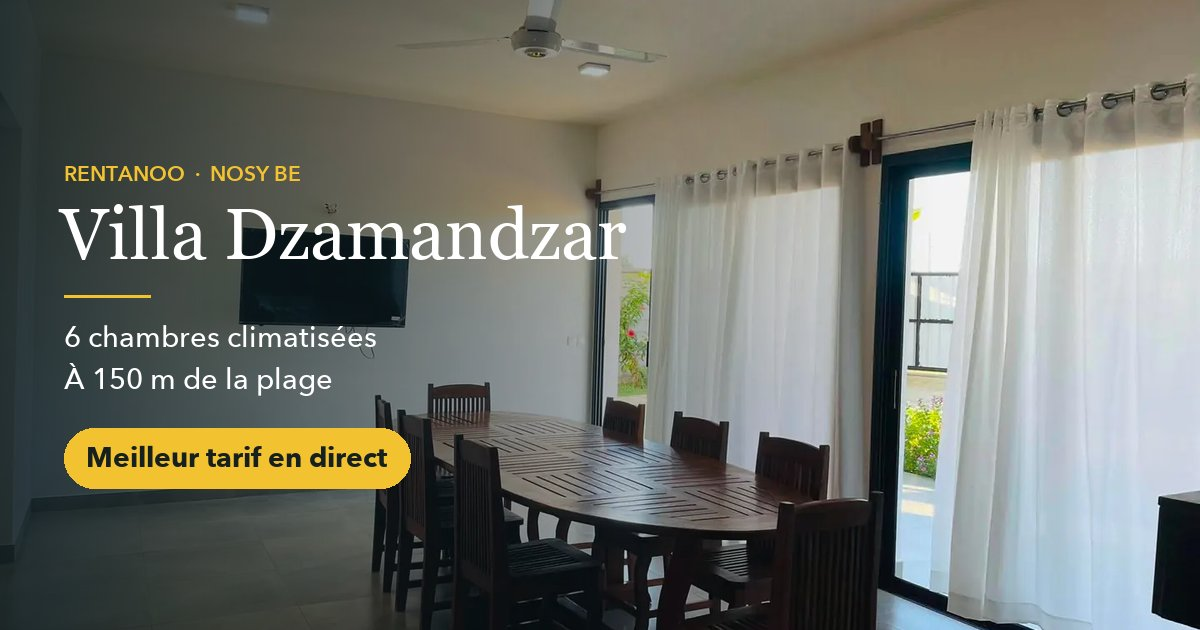
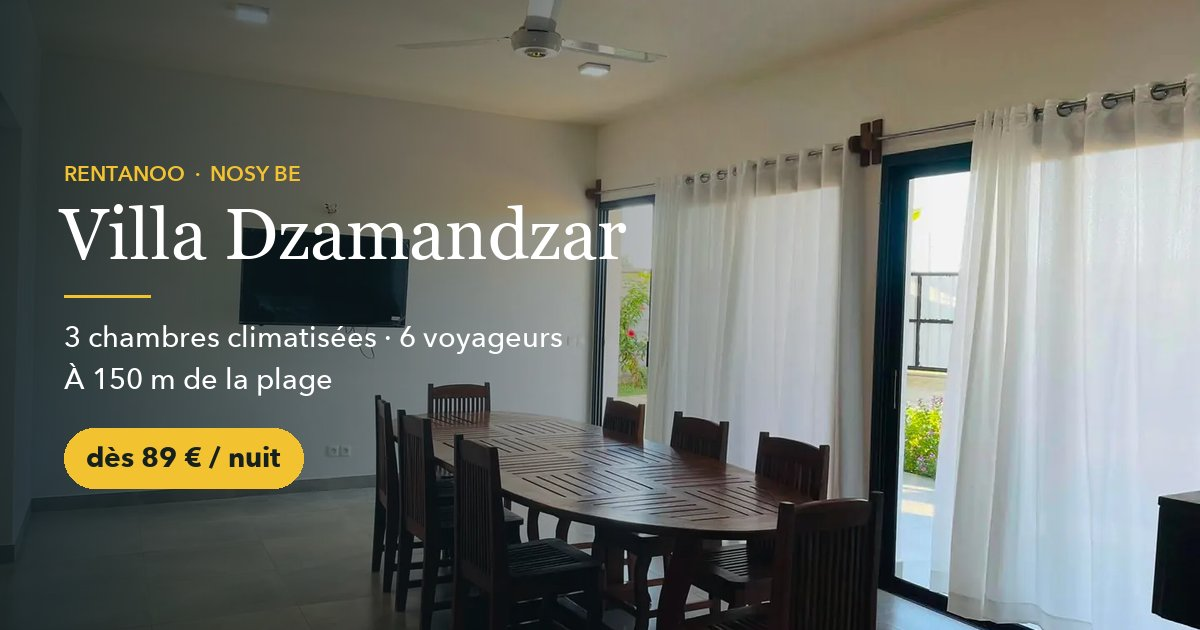
Villa Dzamandzar : 2 logements identiques de 3 chambres (6 pers.), dès 89 € la nuit ; villa entière sur demande

Changed region(s): [[0.0617, 0.6635, 0.3392, 0.7841], [0.3392, 0.5127, 0.4625, 0.573], [0.0308, 0.5127, 0.0617, 0.5429]]

diff --git a/index.html b/index.html
@@ -3,8 +3,8 @@
 <head>
 <meta charset="utf-8">
 <meta name="viewport" content="width=device-width, initial-scale=1">
-<title>Villa 6 chambres climatisées à 150 m de la plage — Dzamandzar, Nosy Be</title>
-<meta name="description" content="Villa meublée de 6 chambres climatisées avec salle de bain privative, à 150 m de la plage à Nosy Be : deux niveaux avec salon, cuisine et grande terrasse chacun, propriété clôturée avec gardien, wifi. Meilleur tarif en direct.">
+<title>Villa Dzamandzar — 2 logements de 3 chambres à 150 m de la plage, Nosy Be</title>
+<meta name="description" content="Villa Dzamandzar, Nosy Be : deux logements identiques de 3 chambres climatisées avec salle de bain, jusqu&#x27;à 6 personnes chacun, à 150 m de la plage. Villa entière (12 pers.) sur demande. Dès 89 € la nuit en direct.">
 <link rel="canonical" href="https://villa-dzamandzar.rentanoo.com/">
 <meta name="robots" content="index, follow, max-image-preview:large, max-snippet:-1">
 <meta name="theme-color" content="#16211F">
@@ -19,8 +19,8 @@
 <meta property="og:locale:alternate" content="it_IT">
 <meta property="og:locale:alternate" content="en_US">
 <meta property="og:url" content="https://villa-dzamandzar.rentanoo.com/">
-<meta property="og:title" content="Villa 6 chambres à 150 m de la plage · Nosy Be">
-<meta property="og:description" content="6 chambres climatisées avec salle de bain, deux niveaux avec cuisine et terrasse, propriété clôturée avec gardien. Meilleur tarif en direct.">
+<meta property="og:title" content="Villa Dzamandzar — 3 chambres, 150 m de la plage · Nosy Be">
+<meta property="og:description" content="Deux logements de 3 chambres climatisées (6 pers. chacun) à 150 m de la plage ; villa entière sur demande. Dès 89 € la nuit en direct.">
 <meta property="og:image" content="https://villa-dzamandzar.rentanoo.com/images/og.jpg">
 <meta property="og:image:secure_url" content="https://villa-dzamandzar.rentanoo.com/images/og.jpg">
 <meta property="og:image:type" content="image/jpeg">
@@ -29,12 +29,12 @@
 <meta property="og:image:alt" content="Villa Dzamandzar — Dzamandzar, Nosy Be">
 
 <meta name="twitter:card" content="summary_large_image">
-<meta name="twitter:title" content="Villa 6 chambres à 150 m de la plage · Nosy Be">
-<meta name="twitter:description" content="6 chambres climatisées avec salle de bain, deux niveaux avec cuisine et terrasse, propriété clôturée avec gardien. Meilleur tarif en direct.">
+<meta name="twitter:title" content="Villa Dzamandzar — 3 chambres, 150 m de la plage · Nosy Be">
+<meta name="twitter:description" content="Deux logements de 3 chambres climatisées (6 pers. chacun) à 150 m de la plage ; villa entière sur demande. Dès 89 € la nuit en direct.">
 <meta name="twitter:image" content="https://villa-dzamandzar.rentanoo.com/images/og.jpg">
 
 <script type="application/ld+json">
-{"@type": "LodgingBusiness", "name": "Villa Dzamandzar", "description": "Villa meublée de 6 chambres climatisées avec salle de bain privative à Dzamandzar (Nosy Be), à 150 m de la plage : rez-de-chaussée et étage avec chacun 3 chambres, salon, cuisine et grande terrasse. Propriété clôturée avec gardien, wifi, ventilateurs de plafond.", "url": "https://villa-dzamandzar.rentanoo.com/", "image": ["https://villa-dzamandzar.rentanoo.com/images/og.jpg", "https://villa-dzamandzar.rentanoo.com/images/sejour-1.webp"], "telephone": "+261373437912", "email": "chrisrentanoo@gmail.com", "address": {"@type": "PostalAddress", "addressLocality": "Dzamandzar", "addressRegion": "Nosy Be", "addressCountry": "MG"}, "areaServed": "Nosy Be", "amenityFeature": [{"@type": "LocationFeatureSpecification", "name": "Climatisation", "value": true}, {"@type": "LocationFeatureSpecification", "name": "Wifi", "value": true}, {"@type": "LocationFeatureSpecification", "name": "Salle de bain privative", "value": true}, {"@type": "LocationFeatureSpecification", "name": "Cuisine équipée", "value": true}, {"@type": "LocationFeatureSpecification", "name": "Gardien sur place", "value": true}, {"@type": "LocationFeatureSpecification", "name": "Propriété clôturée", "value": true}], "sameAs": ["https://rentanoo.com/hebergement/F3074E61"], "numberOfRooms": 6, "@context": "https://schema.org"}
+{"@type": "LodgingBusiness", "name": "Villa Dzamandzar", "description": "Villa à Dzamandzar (Nosy Be), à 150 m de la plage, composée de deux logements identiques (rez-de-chaussée et étage) : chacun 3 chambres climatisées avec salle de bain privative, salon, cuisine et grande terrasse, jusqu'à 6 personnes. Villa entière (6 chambres, 12 personnes) sur demande. Propriété clôturée avec gardien, wifi.", "url": "https://villa-dzamandzar.rentanoo.com/", "image": ["https://villa-dzamandzar.rentanoo.com/images/og.jpg", "https://villa-dzamandzar.rentanoo.com/images/sejour-1.webp"], "telephone": "+261373437912", "email": "chrisrentanoo@gmail.com", "address": {"@type": "PostalAddress", "addressLocality": "Dzamandzar", "addressRegion": "Nosy Be", "addressCountry": "MG"}, "areaServed": "Nosy Be", "amenityFeature": [{"@type": "LocationFeatureSpecification", "name": "Climatisation", "value": true}, {"@type": "LocationFeatureSpecification", "name": "Wifi", "value": true}, {"@type": "LocationFeatureSpecification", "name": "Salle de bain privative", "value": true}, {"@type": "LocationFeatureSpecification", "name": "Cuisine équipée", "value": true}, {"@type": "LocationFeatureSpecification", "name": "Gardien sur place", "value": true}, {"@type": "LocationFeatureSpecification", "name": "Propriété clôturée", "value": true}], "sameAs": ["https://rentanoo.com/hebergement/F3074E61"], "numberOfRooms": 3, "priceRange": "À partir de 89 € la nuit", "currenciesAccepted": "EUR", "@context": "https://schema.org"}
 </script>
 
 <link rel="preconnect" href="https://fonts.googleapis.com">
@@ -274,9 +274,9 @@
 <header id="hdr">
   <a class="brand" href="#top" aria-label="Villa Dzamandzar"><b>Villa Dzamandzar</b><small>Dzamandzar · Nosy Be</small></a>
   <nav class="nav" aria-label="Navigation">
-    <a class="nl" href="#presentation"><span data-i18n="k33">Le logement</span></a>
-    <a class="nl" href="#pieces"><span data-i18n="k34">Pièce par pièce</span></a>
-    <a class="nl" href="#quartier"><span data-i18n="k35">Le quartier</span></a>
+    <a class="nl" href="#presentation"><span data-i18n="k39">Le logement</span></a>
+    <a class="nl" href="#pieces"><span data-i18n="k40">Pièce par pièce</span></a>
+    <a class="nl" href="#quartier"><span data-i18n="k41">Le quartier</span></a>
     <div class="langs" role="group" aria-label="Langue">
       <button type="button" data-lang="fr" aria-pressed="true"><span>FR</span></button>
       <button type="button" data-lang="it" aria-pressed="false"><span>IT</span></button>
@@ -293,27 +293,27 @@
     <img src="images/sejour-1.webp" alt="Le séjour de la villa, Dzamandzar" width="1440" height="1080" fetchpriority="high">
   </picture>
   <div class="hero-in">
-    <p data-i18n="k36" class="eyebrow">Dzamandzar · Nosy Be</p>
+    <p data-i18n="k42" class="eyebrow">Dzamandzar · Nosy Be</p>
     <h1>Villa Dzamandzar</h1>
-    <p data-i18n="k37" class="hero-sub">Une grande villa meublée de 6 chambres climatisées, chacune avec sa salle de bain, à 150 mètres de la plage.</p>
-    <ul class="chips"><li><span data-i18n="k1">6 chambres climatisées</span></li><li><span data-i18n="k2">6 salles de bain</span></li><li><span data-i18n="k3">Plage à 150 m</span></li><li><span data-i18n="k4">Gardien</span></li></ul>
+    <p data-i18n="k43" class="hero-sub">Deux logements identiques de 3 chambres climatisées avec salle de bain, pour 6 personnes chacun, à 150 mètres de la plage.</p>
+    <ul class="chips"><li><span data-i18n="k1">3 chambres climatisées</span></li><li><span data-i18n="k2">Jusqu'à 6 voyageurs</span></li><li><span data-i18n="k3">Plage à 150 m</span></li><li><span data-i18n="k4">Villa entière sur demande</span></li></ul>
     <div class="hero-row">
-      <span class="price-tag ask"><b data-i18n="best">Meilleur tarif en direct</b></span>
+      <span class="price-tag"><span data-i18n="from">dès</span> <b>89 €</b> <span data-i18n="per-night">la nuit</span></span>
       <a class="btn btn-cta" href="#reservation" data-i18n="cta-dates">Demander mes dates</a>
       <a class="btn btn-ghost" href="#" data-wa="hero"><svg><use href="#i-wa"/></svg>WhatsApp</a>
     </div>
-    <p data-i18n="k38" class="price-note">Prix sur demande selon vos dates · réponse rapide sur WhatsApp</p>
+    <p data-i18n="k38" class="price-note">Le meilleur tarif, c'est en direct · réponse rapide sur WhatsApp</p>
   </div>
 </section>
 
-<section class="perks" aria-label="Atouts"><ul><li><svg><use href="#i-snow"/></svg><span data-i18n="k5">6 chambres climatisées</span></li><li><svg><use href="#i-bath"/></svg><span data-i18n="k6">Salle de bain dans chaque chambre</span></li><li><svg><use href="#i-wave"/></svg><span data-i18n="k7">Plage à 150 m</span></li><li><svg><use href="#i-home"/></svg><span data-i18n="k8">2 salons, 2 cuisines, 2 terrasses</span></li><li><svg><use href="#i-wifi"/></svg><span data-i18n="k9">Wifi</span></li><li><svg><use href="#i-key"/></svg><span data-i18n="k10">Propriété clôturée, gardien</span></li><li><svg><use href="#i-car"/></svg><span data-i18n="k11">Accès facile en voiture</span></li><li><svg><use href="#i-users"/></svg><span data-i18n="k12">Familles et groupes</span></li></ul></section>
+<section class="perks" aria-label="Atouts"><ul><li><svg><use href="#i-snow"/></svg><span data-i18n="k5">3 chambres climatisées</span></li><li><svg><use href="#i-bath"/></svg><span data-i18n="k6">Salle de bain dans chaque chambre</span></li><li><svg><use href="#i-users"/></svg><span data-i18n="k7">Jusqu'à 6 voyageurs par logement</span></li><li><svg><use href="#i-wave"/></svg><span data-i18n="k8">Plage à 150 m</span></li><li><svg><use href="#i-home"/></svg><span data-i18n="k9">Salon, cuisine et grande terrasse</span></li><li><svg><use href="#i-wifi"/></svg><span data-i18n="k10">Wifi</span></li><li><svg><use href="#i-key"/></svg><span data-i18n="k11">Propriété clôturée, gardien</span></li><li><svg><use href="#i-car"/></svg><span data-i18n="k12">Accès facile en voiture</span></li></ul></section>
 
 <section class="intro" id="presentation" aria-label="Présentation">
   <div class="wrap intro-grid">
     <div data-reveal>
-      <p data-i18n="k39" class="eyebrow">La villa</p>
-      <h2 data-i18n="k40" class="h2">Toute la tribu sous le même toit</h2>
-      <p data-i18n="k13" class="hook">Une villa meublée à seulement 150 mètres de la plage, dans un environnement calme et sécurisé : propriété entièrement clôturée, gardien sur place.</p><p data-i18n="k14">Deux niveaux qui fonctionnent chacun comme une maison : 3 chambres climatisées avec salle de bain privative, un salon, une cuisine et une grande terrasse — celle de l'étage avec une belle vue dégagée.</p><p data-i18n="k15">Idéale pour les familles nombreuses, les groupes d'amis et les longs séjours.</p>
+      <p data-i18n="k44" class="eyebrow">La villa</p>
+      <h2 data-i18n="k45" class="h2">Deux logements, une seule adresse</h2>
+      <p data-i18n="k13" class="hook">Une villa meublée à seulement 150 mètres de la plage, dans un environnement calme et sécurisé : propriété entièrement clôturée, gardien sur place.</p><p data-i18n="k14">Elle se compose de deux logements identiques, l'un au rez-de-chaussée, l'autre à l'étage. Chacun a 3 chambres climatisées avec salle de bain privative, un salon, une cuisine et une grande terrasse — celle de l'étage avec une belle vue dégagée. Jusqu'à 6 personnes par logement.</p><p data-i18n="k15">Vous êtes plus nombreux ? La villa entière (6 chambres, jusqu'à 12 personnes) se loue sur demande.</p>
       <a class="btn btn-ghost video-btn" href="https://www.youtube.com/watch?v=HvoJFl0Y3u0" target="_blank" rel="noopener"><svg><use href="#i-play"/></svg><span data-i18n="k16">Visite en vidéo</span></a>
       
     </div>
@@ -338,7 +338,7 @@
 
 <div class="wrap rooms-head" id="pieces">
   <p data-i18n="rooms-eyebrow" class="eyebrow">Pièce par pièce</p>
-  <h2 data-i18n="k41" class="h2">Visitez le logement</h2>
+  <h2 data-i18n="k46" class="h2">Visitez le logement</h2>
   <p data-i18n="rooms-lead" class="lead">Toutes les photos sont celles du logement. Touchez une photo pour l'agrandir.</p>
   <nav class="room-nav" aria-label="Pièces"><a href="#sejour"><span data-i18n="k17">Séjour</span></a><a href="#chambres"><span data-i18n="k23">Chambres</span></a><a href="#cuisine"><span data-i18n="k28">Cuisine</span></a></nav>
 </div>
@@ -347,7 +347,7 @@
   <div class="wrap room-grid">
     <div class="room-text" data-reveal>
       <h3 data-i18n="k21">Le séjour</h3>
-      <p data-i18n="k22">Un grand espace de vie lumineux avec sa longue table pour tout le monde, la télévision et les baies vitrées vers la terrasse. Ventilateurs de plafond.</p>
+      <p data-i18n="k22">Un grand espace de vie lumineux avec sa longue table, la télévision et les baies vitrées vers la terrasse. Ventilateurs de plafond.</p>
       <ul class="tags"><li><span data-i18n="k18">Grande table</span></li><li><span data-i18n="k19">Télévision</span></li><li><span data-i18n="k20">Ventilateurs de plafond</span></li></ul>
       <button class="more" type="button" data-open="sejour"><span data-i18n="see-photos">Voir les photos</span> <span class="n"></span></button>
     </div>
@@ -357,8 +357,8 @@
 <section class="room rev" id="chambres" data-gallery="chambres" aria-label="Chambres">
   <div class="wrap room-grid">
     <div class="room-text" data-reveal>
-      <h3 data-i18n="k26">Six chambres</h3>
-      <p data-i18n="k27">Trois chambres par niveau, toutes climatisées et chacune avec sa salle de bain privative.</p>
+      <h3 data-i18n="k26">Trois chambres</h3>
+      <p data-i18n="k27">Chaque logement a 3 chambres, toutes climatisées et chacune avec sa salle de bain privative.</p>
       <ul class="tags"><li><span data-i18n="k24">Climatisation</span></li><li><span data-i18n="k25">Salle de bain privative</span></li></ul>
       <button class="more" type="button" data-open="chambres"><span data-i18n="see-photos">Voir les photos</span> <span class="n"></span></button>
     </div>
@@ -368,8 +368,8 @@
 <section class="room" id="cuisine" data-gallery="cuisine" aria-label="Cuisine">
   <div class="wrap room-grid">
     <div class="room-text" data-reveal>
-      <h3 data-i18n="k30">Deux cuisines</h3>
-      <p data-i18n="k31">Une cuisine équipée à chaque niveau : chacun cuisine à son rythme.</p>
+      <h3 data-i18n="k30">La cuisine</h3>
+      <p data-i18n="k31">Une cuisine équipée dans chaque logement, pour cuisiner à votre rythme.</p>
       <ul class="tags"><li><span data-i18n="k29">Cuisine équipée</span></li></ul>
       <button class="more" type="button" data-open="cuisine"><span data-i18n="see-photos">Voir les photos</span> <span class="n"></span></button>
     </div>
@@ -381,8 +381,8 @@
   <div class="wrap area-grid">
     <div data-reveal>
       <p data-i18n="area-eyebrow" class="eyebrow">Le quartier</p>
-      <h2 data-i18n="k42" class="h2">À 150 mètres de la plage</h2>
-      <p data-i18n="k43">Un quartier calme et agréable de Dzamandzar, sur la côte ouest de Nosy Be, avec un accès facile en voiture. Électricité et eau de la JIRAMA.</p>
+      <h2 data-i18n="k47" class="h2">À 150 mètres de la plage</h2>
+      <p data-i18n="k48">Un quartier calme et agréable de Dzamandzar, sur la côte ouest de Nosy Be, avec un accès facile en voiture. Électricité et eau de la JIRAMA.</p>
       
     </div>
     <ul class="dist" data-reveal><li><span data-i18n="k32">La plage<small>à pied</small></span><b>150 m</b></li></ul>
@@ -395,7 +395,7 @@
     <div data-reveal>
       <p data-i18n="host-eyebrow" class="eyebrow">Réservation</p>
       <h2 data-i18n="host-title" class="h2">Bonjour, c'est Chris</h2>
-      <p data-i18n="k44">Avec Rentanoo, j'accueille des voyageurs à Nosy Be toute l'année et je gère les réservations de plusieurs logements sur l'île, dont celui-ci. Mon métier : vous rendre le séjour facile.</p>
+      <p data-i18n="k49">Avec Rentanoo, j'accueille des voyageurs à Nosy Be toute l'année et je gère les réservations de plusieurs logements sur l'île, dont celui-ci. Mon métier : vous rendre le séjour facile.</p>
       <p data-i18n="host-2">Je réponds vite, du matin au soir, en français, en anglais ou en italien.</p>
       <p style="font-weight:600;color:var(--ink);margin-top:22px"><span data-i18n="svc-title">Sur demande, Rentanoo organise aussi :</span></p>
       <div class="svc">
@@ -412,13 +412,13 @@
   <div class="wrap">
     <div class="resa-head" data-reveal>
       <p data-i18n="resa-eyebrow" class="eyebrow">Réservation</p>
-      <div class="resa-price"><span data-i18n="best">Meilleur tarif en direct</span></div>
+      <div class="resa-price"><span data-i18n="from">dès</span> <b>89 €</b> <span data-i18n="per-night">la nuit</span></div>
       <h2 data-i18n="resa-title" class="h2">Demandez vos dates</h2>
       <p data-i18n="resa-text">Choisissez vos dates et laissez-nous vos coordonnées : on revient vers vous très vite avec la disponibilité et le meilleur prix.</p>
     </div>
     <form id="resa-form" novalidate data-reveal>
       <div class="resa-grid">
-        <input type="hidden" name="logement" value="Villa Dzamandzar">
+        <label class="resa-field full"><span data-i18n="k37">Logement</span><select name="logement" id="resa-logement"><option value="Villa Dzamandzar — logement du rez-de-chaussée" data-i18n="k33">Logement du rez-de-chaussée — 3 ch., 6 pers. · dès 89 €</option><option value="Villa Dzamandzar — logement de l&#x27;étage" data-i18n="k34">Logement de l'étage — 3 ch., 6 pers. · dès 89 €</option><option value="Villa Dzamandzar — villa entière (sur demande)" data-i18n="k35">Villa entière — 6 ch., 12 pers. · sur demande</option><option value="Peu importe" data-i18n="k36">Peu importe / conseillez-moi</option></select></label>
         <label class="resa-field"><span data-i18n="f-in">Arrivée</span><input type="date" name="arrivee" required></label>
         <label class="resa-field"><span data-i18n="f-out">Départ</span><input type="date" name="depart" required></label>
         <label class="resa-field full"><span data-i18n="f-guests">Voyageurs</span><select name="voyageurs"><option>1</option><option selected>2</option><option>3</option><option>4</option><option>5</option><option>6</option><option>7</option><option>8</option><option>9</option><option>10</option><option>11</option><option>12</option></select></label>
@@ -460,7 +460,7 @@
 </footer>
 
 <div id="sticky" aria-hidden="true">
-  <div class="p"><b data-i18n="best" style="font-size:14px">Meilleur tarif en direct</b></div>
+  <div class="p"><span data-i18n="from">dès</span> <b>89 € <span style="font-size:12px;font-weight:600;color:var(--ink-2)" data-i18n="per-night">la nuit</span></b></div>
   <a class="btn btn-cta" href="#reservation" data-i18n="cta-dates">Demander mes dates</a>
 </div>
 
@@ -511,8 +511,8 @@ if('IntersectionObserver' in window){var io=new IntersectionObserver(function(es
 else document.querySelectorAll('[data-reveal]').forEach(function(el){el.classList.add('in')});
 
 /* Traductions : FR dans le HTML, IT/EN ici (générées par build.py, clé = data-i18n) */
-var T={"k1": {"it": "6 camere climatizzate", "en": "6 air-conditioned bedrooms"}, "k2": {"it": "6 bagni", "en": "6 bathrooms"}, "k3": {"it": "Spiaggia a 150 m", "en": "Beach 150 m away"}, "k4": {"it": "Custode", "en": "Caretaker"}, "k5": {"it": "6 camere climatizzate", "en": "6 air-conditioned bedrooms"}, "k6": {"it": "Bagno in ogni camera", "en": "En-suite in every bedroom"}, "k7": {"it": "Spiaggia a 150 m", "en": "Beach 150 m away"}, "k8": {"it": "2 soggiorni, 2 cucine, 2 terrazze", "en": "2 lounges, 2 kitchens, 2 terraces"}, "k9": {"it": "Wi-Fi", "en": "Wi-Fi"}, "k10": {"it": "Proprietà recintata, custode", "en": "Gated, with caretaker"}, "k11": {"it": "Facile accesso in auto", "en": "Easy car access"}, "k12": {"it": "Famiglie e gruppi", "en": "Families & groups"}, "k13": {"it": "Una villa arredata a soli 150 metri dalla spiaggia, in un ambiente tranquillo e sicuro: proprietà interamente recintata, custode sul posto.", "en": "A furnished villa just 150 metres from the beach, in a quiet and safe setting: fully fenced property, caretaker on site."}, "k14": {"it": "Due livelli che funzionano ciascuno come una casa: 3 camere climatizzate con bagno privato, un soggiorno, una cucina e una grande terrazza — quella del piano superiore con una bella vista aperta.", "en": "Two levels that each work like a house: 3 air-conditioned bedrooms with en-suite bathrooms, a lounge, a kitchen and a large terrace — the upstairs one with a lovely open view."}, "k15": {"it": "Ideale per famiglie numerose, gruppi di amici e soggiorni lunghi.", "en": "Ideal for large families, groups of friends and long stays."}, "k16": {"it": "Visita in video", "en": "Video tour"}, "k17": {"it": "Soggiorno", "en": "Living area"}, "k18": {"it": "Grande tavolo", "en": "Big table"}, "k19": {"it": "Televisione", "en": "TV"}, "k20": {"it": "Ventilatori a soffitto", "en": "Ceiling fans"}, "k21": {"it": "Il soggiorno", "en": "The living area"}, "k22": {"it": "Un grande spazio luminoso con un lungo tavolo per tutti, la televisione e le vetrate verso la terrazza. Ventilatori a soffitto.", "en": "A large, bright living space with a long table for everyone, a TV and glass doors to the terrace. Ceiling fans."}, "see-photos": {"it": "Vedi le foto", "en": "See the photos"}, "k23": {"it": "Camere", "en": "Bedrooms"}, "k24": {"it": "Aria condizionata", "en": "Air conditioning"}, "k25": {"it": "Bagno privato", "en": "En-suite bathroom"}, "k26": {"it": "Sei camere", "en": "Six bedrooms"}, "k27": {"it": "Tre camere per piano, tutte climatizzate e ognuna con il proprio bagno.", "en": "Three bedrooms on each level, all air-conditioned and each with its own en-suite bathroom."}, "k28": {"it": "Cucina", "en": "Kitchen"}, "k29": {"it": "Cucina attrezzata", "en": "Equipped kitchen"}, "k30": {"it": "Due cucine", "en": "Two kitchens"}, "k31": {"it": "Una cucina attrezzata a ogni piano: ognuno cucina con i propri tempi.", "en": "An equipped kitchen on each level: everyone cooks at their own pace."}, "k32": {"it": "La spiaggia<small>a piedi</small>", "en": "The beach<small>on foot</small>"}, "cta-book": {"it": "Prenota", "en": "Book"}, "cta-dates": {"it": "Chiedi le tue date", "en": "Request your dates"}, "best": {"it": "Tariffa migliore prenotando direttamente", "en": "Best rate when you book direct"}, "pf-best": {"it": "Tariffa migliore", "en": "Best rate"}, "k33": {"it": "L'alloggio", "en": "The place"}, "k34": {"it": "Stanza per stanza", "en": "Room by room"}, "k35": {"it": "Il quartiere", "en": "The area"}, "k36": {"it": "Dzamandzar · Nosy Be", "en": "Dzamandzar · Nosy Be"}, "k37": {"it": "Una grande villa arredata con 6 camere climatizzate, ognuna con il proprio bagno, a 150 metri dalla spiaggia.", "en": "A large furnished villa with 6 air-conditioned bedrooms, each with its own bathroom, 150 metres from the beach."}, "k38": {"it": "Prezzo su richiesta in base alle date · risposta rapida su WhatsApp", "en": "Price on request for your dates · quick reply on WhatsApp"}, "k39": {"it": "La villa", "en": "The villa"}, "k40": {"it": "Tutta la tribù sotto lo stesso tetto", "en": "The whole crew under one roof"}, "direct-eyebrow": {"it": "Prenota direttamente", "en": "Book direct"}, "direct-title": {"it": "La tariffa migliore è qui", "en": "The best rate is here"}, "direct-text": {"it": "Sulle piattaforme il prezzo a notte include le loro commissioni. Prenotando direttamente con noi pagate meno: inviateci le date e vi rispondiamo con il prezzo migliore.", "en": "On booking platforms, the nightly price includes their commissions. Book directly with us and you pay less: send us your dates and we reply with the best price."}, "direct-1": {"it": "Più conveniente delle piattaforme per le stesse date", "en": "Cheaper than the platforms for the same dates"}, "direct-2": {"it": "Parlate direttamente con noi, risposta rapida su WhatsApp", "en": "You talk directly to us, quick replies on WhatsApp"}, "direct-3": {"it": "Transfer, scooter, auto o escursione organizzati subito", "en": "Transfer, scooter, car or excursion arranged in one go"}, "rooms-eyebrow": {"it": "Stanza per stanza", "en": "Room by room"}, "k41": {"it": "Visitate l'alloggio", "en": "Take the tour"}, "rooms-lead": {"it": "Tutte le foto sono dell'alloggio. Toccate una foto per ingrandirla.", "en": "All photos are of the place itself. Tap a photo to enlarge it."}, "area-eyebrow": {"it": "Il quartiere", "en": "The area"}, "k42": {"it": "A 150 metri dalla spiaggia", "en": "150 metres from the beach"}, "k43": {"it": "Un quartiere tranquillo e piacevole di Dzamandzar, sulla costa ovest di Nosy Be, facile da raggiungere in auto. Elettricità e acqua della JIRAMA.", "en": "A quiet, pleasant part of Dzamandzar on the west coast of Nosy Be, with easy car access. Mains electricity and water (JIRAMA)."}, "host-eyebrow": {"it": "Prenotazione", "en": "Booking"}, "host-title": {"it": "Ciao, sono Chris", "en": "Hi, I'm Chris"}, "k44": {"it": "Con Rentanoo accolgo viaggiatori a Nosy Be tutto l'anno e gestisco le prenotazioni di diversi alloggi sull'isola, tra cui questo. Il mio lavoro è rendervi il soggiorno facile.", "en": "With Rentanoo I welcome travellers to Nosy Be all year round and handle bookings for several places on the island, including this one. My job is to make your stay easy."}, "host-2": {"it": "Rispondo rapidamente, dalla mattina alla sera, in francese, inglese o italiano.", "en": "I reply quickly, from morning to evening, in French, English or Italian."}, "svc-title": {"it": "Su richiesta, Rentanoo organizza anche:", "en": "On request, Rentanoo also arranges:"}, "svc-1": {"it": "Transfer dall'aeroporto", "en": "Airport transfer"}, "svc-2": {"it": "Noleggio di scooter o quad", "en": "Scooter or quad rental"}, "svc-3": {"it": "Escursioni e taxi-boat", "en": "Excursions and taxi-boat"}, "svc-4": {"it": "Auto con o senza autista", "en": "Car with or without a driver"}, "resa-eyebrow": {"it": "Prenotazione", "en": "Booking"}, "resa-title": {"it": "Chiedete le vostre date", "en": "Request your dates"}, "resa-text": {"it": "Scegliete le date e lasciateci i vostri recapiti: vi ricontattiamo molto presto con la disponibilità e il prezzo migliore.", "en": "Pick your dates and leave your details: we will get back to you very quickly with availability and the best price."}, "f-in": {"it": "Arrivo", "en": "Check-in"}, "f-out": {"it": "Partenza", "en": "Check-out"}, "f-guests": {"it": "Ospiti", "en": "Guests"}, "f-first": {"it": "Nome", "en": "First name"}, "f-last": {"it": "Cognome", "en": "Last name"}, "f-tel": {"it": "Telefono (WhatsApp)", "en": "Phone (WhatsApp)"}, "f-mail": {"it": "E-mail", "en": "Email"}, "f-msg": {"it": "Messaggio (facoltativo): transfer, scooter, escursione…", "en": "Message (optional): transfer, scooter, excursion…"}, "f-send": {"it": "Invia la richiesta", "en": "Send my request"}, "f-free": {"it": "Gratis e senza impegno · risposta rapida", "en": "Free, no commitment · quick reply"}, "alt-text": {"it": "Preferite scrivere?", "en": "Prefer to write?"}, "pf-eyebrow": {"it": "Anche online su", "en": "Also listed on"}, "pf-text": {"it": "Preferite passare da una piattaforma? Trovate l'alloggio qui.", "en": "Prefer to use a platform? Find the place here."}, "ft-powered": {"it": "Sito realizzato da", "en": "Site powered by"}};
-var TITLE={"fr": "Villa 6 chambres climatisées à 150 m de la plage — Dzamandzar, Nosy Be", "it": "Villa con 6 camere climatizzate a 150 m dalla spiaggia — Dzamandzar, Nosy Be", "en": "6-bedroom air-conditioned villa 150 m from the beach — Dzamandzar, Nosy Be"};
+var T={"k1": {"it": "3 camere climatizzate", "en": "3 air-conditioned bedrooms"}, "k2": {"it": "Fino a 6 ospiti", "en": "Up to 6 guests"}, "k3": {"it": "Spiaggia a 150 m", "en": "Beach 150 m away"}, "k4": {"it": "Villa intera su richiesta", "en": "Whole villa on request"}, "k5": {"it": "3 camere climatizzate", "en": "3 air-conditioned bedrooms"}, "k6": {"it": "Bagno in ogni camera", "en": "En-suite in every bedroom"}, "k7": {"it": "Fino a 6 ospiti per alloggio", "en": "Up to 6 guests per unit"}, "k8": {"it": "Spiaggia a 150 m", "en": "Beach 150 m away"}, "k9": {"it": "Soggiorno, cucina e grande terrazza", "en": "Lounge, kitchen and large terrace"}, "k10": {"it": "Wi-Fi", "en": "Wi-Fi"}, "k11": {"it": "Proprietà recintata, custode", "en": "Gated, with caretaker"}, "k12": {"it": "Facile accesso in auto", "en": "Easy car access"}, "k13": {"it": "Una villa arredata a soli 150 metri dalla spiaggia, in un ambiente tranquillo e sicuro: proprietà interamente recintata, custode sul posto.", "en": "A furnished villa just 150 metres from the beach, in a quiet and safe setting: fully fenced property, caretaker on site."}, "k14": {"it": "È composta da due alloggi identici, uno al piano terra e uno al piano superiore. Ognuno ha 3 camere climatizzate con bagno privato, un soggiorno, una cucina e una grande terrazza — quella del piano superiore con una bella vista aperta. Fino a 6 persone per alloggio.", "en": "It is made up of two identical units, one on the ground floor and one upstairs. Each has 3 air-conditioned bedrooms with en-suite bathrooms, a lounge, a kitchen and a large terrace — the upstairs one with a lovely open view. Up to 6 guests per unit."}, "k15": {"it": "Siete di più? La villa intera (6 camere, fino a 12 persone) si affitta su richiesta.", "en": "More of you? The whole villa (6 bedrooms, up to 12 guests) can be rented on request."}, "k16": {"it": "Visita in video", "en": "Video tour"}, "k17": {"it": "Soggiorno", "en": "Living area"}, "k18": {"it": "Grande tavolo", "en": "Big table"}, "k19": {"it": "Televisione", "en": "TV"}, "k20": {"it": "Ventilatori a soffitto", "en": "Ceiling fans"}, "k21": {"it": "Il soggiorno", "en": "The living area"}, "k22": {"it": "Un grande spazio luminoso con un lungo tavolo, la televisione e le vetrate verso la terrazza. Ventilatori a soffitto.", "en": "A large, bright living space with a long table, a TV and glass doors to the terrace. Ceiling fans."}, "see-photos": {"it": "Vedi le foto", "en": "See the photos"}, "k23": {"it": "Camere", "en": "Bedrooms"}, "k24": {"it": "Aria condizionata", "en": "Air conditioning"}, "k25": {"it": "Bagno privato", "en": "En-suite bathroom"}, "k26": {"it": "Tre camere", "en": "Three bedrooms"}, "k27": {"it": "Ogni alloggio ha 3 camere, tutte climatizzate e ognuna con il proprio bagno.", "en": "Each unit has 3 bedrooms, all air-conditioned and each with its own en-suite bathroom."}, "k28": {"it": "Cucina", "en": "Kitchen"}, "k29": {"it": "Cucina attrezzata", "en": "Equipped kitchen"}, "k30": {"it": "La cucina", "en": "The kitchen"}, "k31": {"it": "Una cucina attrezzata in ogni alloggio, per cucinare con i vostri tempi.", "en": "An equipped kitchen in each unit, so you can cook at your own pace."}, "k32": {"it": "La spiaggia<small>a piedi</small>", "en": "The beach<small>on foot</small>"}, "k33": {"it": "Alloggio al piano terra — 3 camere, 6 pers. · da 89 €", "en": "Ground-floor unit — 3 bedrooms, 6 guests · from €89"}, "k34": {"it": "Alloggio al piano superiore — 3 camere, 6 pers. · da 89 €", "en": "Upstairs unit — 3 bedrooms, 6 guests · from €89"}, "k35": {"it": "Villa intera — 6 camere, 12 pers. · su richiesta", "en": "Whole villa — 6 bedrooms, 12 guests · on request"}, "k36": {"it": "Indifferente / consigliatemi", "en": "Either / advise me"}, "k37": {"it": "Alloggio", "en": "Unit"}, "from": {"it": "da", "en": "from"}, "per-night": {"it": "a notte", "en": "per night"}, "k38": {"it": "La tariffa migliore è prenotando direttamente · risposta rapida su WhatsApp", "en": "The best rate is when you book direct · quick reply on WhatsApp"}, "cta-book": {"it": "Prenota", "en": "Book"}, "cta-dates": {"it": "Chiedi le tue date", "en": "Request your dates"}, "best": {"it": "Tariffa migliore prenotando direttamente", "en": "Best rate when you book direct"}, "pf-best": {"it": "Tariffa migliore", "en": "Best rate"}, "k39": {"it": "L'alloggio", "en": "The place"}, "k40": {"it": "Stanza per stanza", "en": "Room by room"}, "k41": {"it": "Il quartiere", "en": "The area"}, "k42": {"it": "Dzamandzar · Nosy Be", "en": "Dzamandzar · Nosy Be"}, "k43": {"it": "Due alloggi identici con 3 camere climatizzate e bagno, per 6 persone ciascuno, a 150 metri dalla spiaggia.", "en": "Two identical units with 3 air-conditioned en-suite bedrooms, for 6 guests each, 150 metres from the beach."}, "k44": {"it": "La villa", "en": "The villa"}, "k45": {"it": "Due alloggi, un solo indirizzo", "en": "Two units, one address"}, "direct-eyebrow": {"it": "Prenota direttamente", "en": "Book direct"}, "direct-title": {"it": "La tariffa migliore è qui", "en": "The best rate is here"}, "direct-text": {"it": "Sulle piattaforme il prezzo a notte include le loro commissioni. Prenotando direttamente con noi pagate meno: inviateci le date e vi rispondiamo con il prezzo migliore.", "en": "On booking platforms, the nightly price includes their commissions. Book directly with us and you pay less: send us your dates and we reply with the best price."}, "direct-1": {"it": "Più conveniente delle piattaforme per le stesse date", "en": "Cheaper than the platforms for the same dates"}, "direct-2": {"it": "Parlate direttamente con noi, risposta rapida su WhatsApp", "en": "You talk directly to us, quick replies on WhatsApp"}, "direct-3": {"it": "Transfer, scooter, auto o escursione organizzati subito", "en": "Transfer, scooter, car or excursion arranged in one go"}, "rooms-eyebrow": {"it": "Stanza per stanza", "en": "Room by room"}, "k46": {"it": "Visitate l'alloggio", "en": "Take the tour"}, "rooms-lead": {"it": "Tutte le foto sono dell'alloggio. Toccate una foto per ingrandirla.", "en": "All photos are of the place itself. Tap a photo to enlarge it."}, "area-eyebrow": {"it": "Il quartiere", "en": "The area"}, "k47": {"it": "A 150 metri dalla spiaggia", "en": "150 metres from the beach"}, "k48": {"it": "Un quartiere tranquillo e piacevole di Dzamandzar, sulla costa ovest di Nosy Be, facile da raggiungere in auto. Elettricità e acqua della JIRAMA.", "en": "A quiet, pleasant part of Dzamandzar on the west coast of Nosy Be, with easy car access. Mains electricity and water (JIRAMA)."}, "host-eyebrow": {"it": "Prenotazione", "en": "Booking"}, "host-title": {"it": "Ciao, sono Chris", "en": "Hi, I'm Chris"}, "k49": {"it": "Con Rentanoo accolgo viaggiatori a Nosy Be tutto l'anno e gestisco le prenotazioni di diversi alloggi sull'isola, tra cui questo. Il mio lavoro è rendervi il soggiorno facile.", "en": "With Rentanoo I welcome travellers to Nosy Be all year round and handle bookings for several places on the island, including this one. My job is to make your stay easy."}, "host-2": {"it": "Rispondo rapidamente, dalla mattina alla sera, in francese, inglese o italiano.", "en": "I reply quickly, from morning to evening, in French, English or Italian."}, "svc-title": {"it": "Su richiesta, Rentanoo organizza anche:", "en": "On request, Rentanoo also arranges:"}, "svc-1": {"it": "Transfer dall'aeroporto", "en": "Airport transfer"}, "svc-2": {"it": "Noleggio di scooter o quad", "en": "Scooter or quad rental"}, "svc-3": {"it": "Escursioni e taxi-boat", "en": "Excursions and taxi-boat"}, "svc-4": {"it": "Auto con o senza autista", "en": "Car with or without a driver"}, "resa-eyebrow": {"it": "Prenotazione", "en": "Booking"}, "resa-title": {"it": "Chiedete le vostre date", "en": "Request your dates"}, "resa-text": {"it": "Scegliete le date e lasciateci i vostri recapiti: vi ricontattiamo molto presto con la disponibilità e il prezzo migliore.", "en": "Pick your dates and leave your details: we will get back to you very quickly with availability and the best price."}, "f-in": {"it": "Arrivo", "en": "Check-in"}, "f-out": {"it": "Partenza", "en": "Check-out"}, "f-guests": {"it": "Ospiti", "en": "Guests"}, "f-first": {"it": "Nome", "en": "First name"}, "f-last": {"it": "Cognome", "en": "Last name"}, "f-tel": {"it": "Telefono (WhatsApp)", "en": "Phone (WhatsApp)"}, "f-mail": {"it": "E-mail", "en": "Email"}, "f-msg": {"it": "Messaggio (facoltativo): transfer, scooter, escursione…", "en": "Message (optional): transfer, scooter, excursion…"}, "f-send": {"it": "Invia la richiesta", "en": "Send my request"}, "f-free": {"it": "Gratis e senza impegno · risposta rapida", "en": "Free, no commitment · quick reply"}, "alt-text": {"it": "Preferite scrivere?", "en": "Prefer to write?"}, "pf-eyebrow": {"it": "Anche online su", "en": "Also listed on"}, "pf-text": {"it": "Preferite passare da una piattaforma? Trovate l'alloggio qui.", "en": "Prefer to use a platform? Find the place here."}, "ft-powered": {"it": "Sito realizzato da", "en": "Site powered by"}};
+var TITLE={"fr": "Villa Dzamandzar — 2 logements de 3 chambres à 150 m de la plage, Nosy Be", "it": "Villa Dzamandzar — 2 alloggi con 3 camere a 150 m dalla spiaggia, Nosy Be", "en": "Villa Dzamandzar — two 3-bedroom units 150 m from the beach, Nosy Be"};
 var MSG={"ok": {"fr": "✅ Demande envoyée ! Un e-mail de confirmation arrive dans votre boîte. On revient vers vous très vite.", "it": "✅ Richiesta inviata! Vi ricontattiamo molto presto.", "en": "✅ Request sent! We'll get back to you very soon."}, "req": {"fr": "Merci de remplir les champs requis.", "it": "Compilate i campi obbligatori.", "en": "Please fill in the required fields."}, "dates": {"fr": "La date de départ doit être après l'arrivée.", "it": "La data di partenza deve essere dopo l'arrivo.", "en": "Check-out must be after check-in."}, "err": {"fr": "Une erreur est survenue. Réessayez, ou écrivez-nous à ", "it": "Si è verificato un errore. Riprovate o scriveteci a ", "en": "Something went wrong. Please try again, or write to "}, "sending": {"fr": "Envoi…", "it": "Invio…", "en": "Sending…"}};
 var WA_NUM='261373437912';
 var WA_TXT={"fr": "Bonjour, je suis intéressé(e) par Villa Dzamandzar à Nosy Be. Mes dates : ", "it": "Buongiorno, sono interessato/a a Villa Dzamandzar a Nosy Be. Le mie date: ", "en": "Hello, I'm interested in Villa Dzamandzar in Nosy Be. My dates: "};
